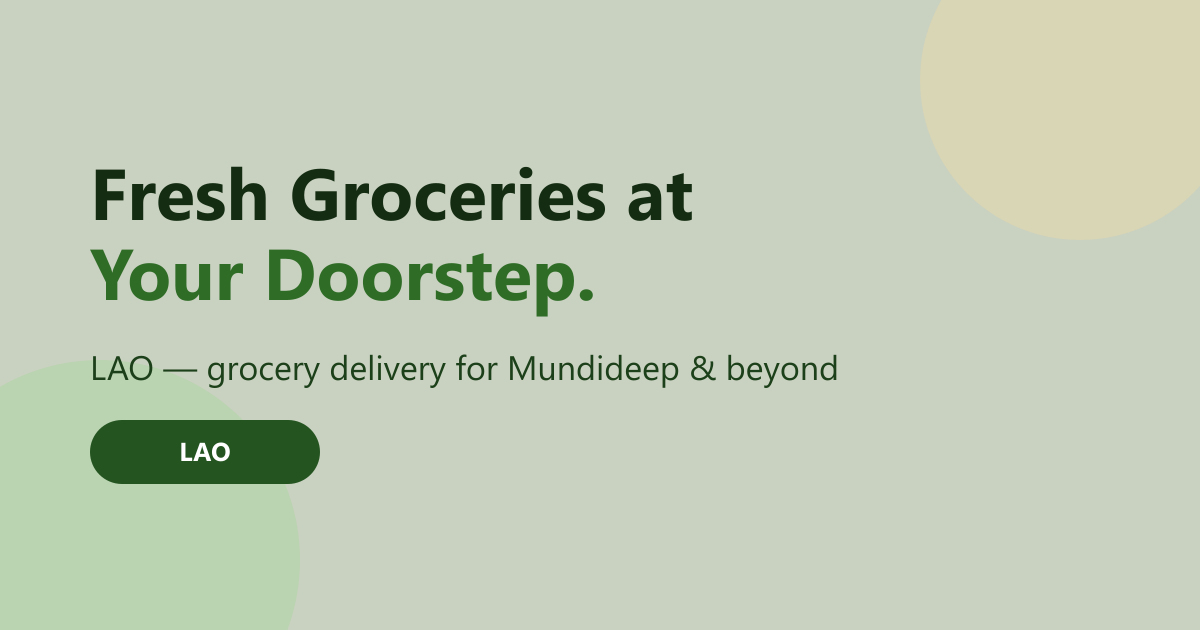
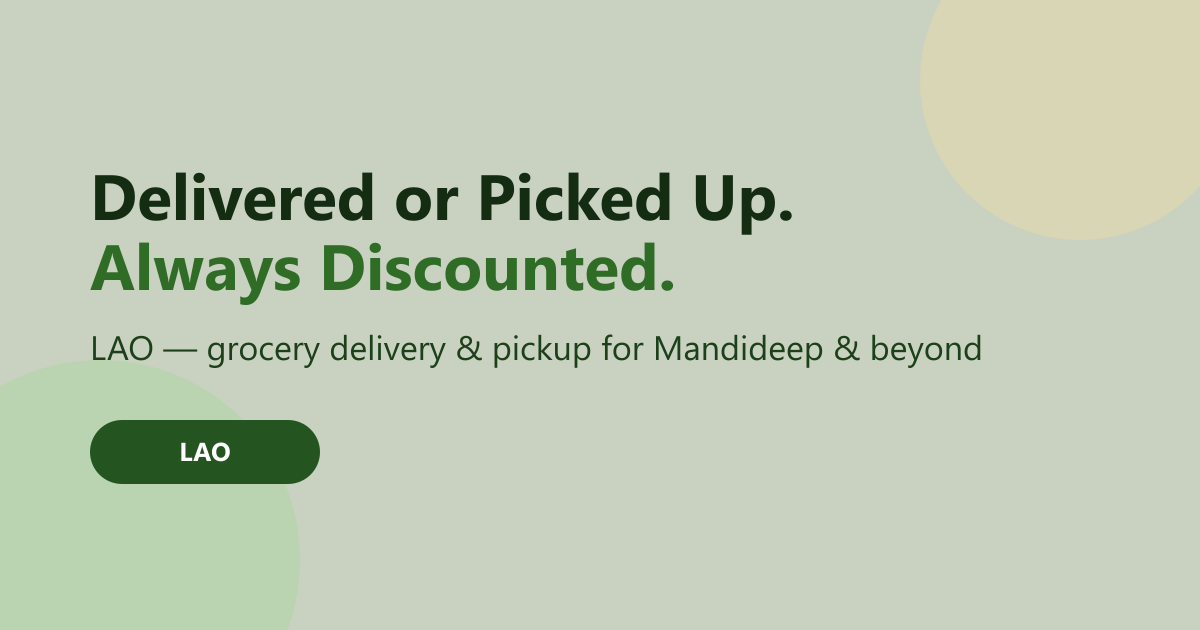
Fix Mandideep spelling, add delivery-vs-pickup + discount messaging
- Correct "Mundideep" -> "Mandideep" everywhere (was inconsistent,
  matching a typo in the source Figma copy).
- Rework hero headline/subcopy and trust badges to surface both
  fulfillment options (home delivery or in-store pickup) and make the
  discounted-delivery pricing explicit rather than implied.
- Add a placeholder "Pickup Locations in Mandideep" block to the
  footer with three dummy store addresses (flagged in README as
  needing real addresses before launch).
- Add an FAQ entry and llms.txt note covering delivery vs. pickup.
- New percent/store icons for the trust badges.

Changed region(s): [[0.0617, 0.2714, 0.6783, 0.3921], [0.0617, 0.3921, 0.555, 0.5127], [0.0617, 0.5127, 0.8325, 0.6032]]

diff --git a/src/data/site.ts b/src/data/site.ts
@@ -1,16 +1,16 @@
 export const site = {
   name: "LAO",
   fullName: "LAO Delivery",
-  tagline: "Fresh Groceries at Your Doorstep.",
+  tagline: "Groceries Delivered to Your Doorstep or Picked Up In-Store.",
   description:
-    "LAO delivers fresh groceries, dairy, snacks, household essentials, personal care and baby care to your doorstep in Mundideep and other Tier 3 cities across Madhya Pradesh. Free delivery on your first order.",
+    "LAO delivers discounted fresh groceries, dairy, snacks, household essentials, personal care and baby care to your doorstep — or ready for pickup from your nearest store — in Mandideep and other Tier 3 cities across Madhya Pradesh. Free delivery on your first order.",
   // Render sets RENDER_EXTERNAL_URL automatically at build time. Falls back
   // to the eventual production domain once that's pointed at the service.
   url: process.env.RENDER_EXTERNAL_URL ?? "https://www.laogrocery.com",
   playStoreUrl: "https://play.google.com/store",
   supportEmail: "support@laogrocery.com",
   supportPhone: "+91-90000-00000",
-  foundingCity: "Mundideep, Madhya Pradesh",
+  foundingCity: "Mandideep, Madhya Pradesh",
   social: {
     instagram: "https://instagram.com/laogrocery",
     facebook: "https://facebook.com/laogrocery",
@@ -28,8 +28,9 @@ export const navLinks = [
 
 export const trustBadges = [
   { icon: "truck", title: "Fast Delivery" },
-  { icon: "gift", title: "1st Order Delivery free" },
-  { icon: "pin", title: "Now Available in Mundideep" },
+  { icon: "percent", title: "Discounted Home Delivery" },
+  { icon: "store", title: "Pickup From Store" },
+  { icon: "pin", title: "Now Available in Mandideep" },
 ];
 
 export const services = [
@@ -75,7 +76,8 @@ export const whyLaoPoints = [
   {
     number: 1,
     title: "Best Prices",
-    description: "No hidden charges. Cheaper than local stores.",
+    description:
+      "No hidden charges. Home delivery is always discounted versus your local store, and pickup orders skip delivery fees entirely.",
   },
   {
     number: 2,
@@ -105,6 +107,24 @@ export const nearbyCities = [
   "Dewas",
 ];
 
+// Placeholder pickup points — replace with real store addresses once
+// confirmed. All three are in Mandideep, the founding city, until pickup
+// expands to nearby cities alongside delivery.
+export const storeLocations = [
+  {
+    name: "LAO Store — Old Bus Stand Road",
+    area: "Near Bus Stand, Mandideep, MP 462046",
+  },
+  {
+    name: "LAO Store — Industrial Area Phase II",
+    area: "Sector B, Mandideep, MP 462046",
+  },
+  {
+    name: "LAO Store — Housing Board Colony",
+    area: "Main Road, Mandideep, MP 462046",
+  },
+];
+
 export const footerLinks = {
   support: [
     "Groceries",
@@ -131,12 +151,17 @@ export const faqs = [
   {
     question: "Which cities does LAO deliver to?",
     answer:
-      "LAO started in Mundideep, Madhya Pradesh and is expanding to nearby Tier 3 cities and towns across the state, bringing metro-quality grocery delivery to communities that are often left behind.",
+      "LAO started in Mandideep, Madhya Pradesh and is expanding to nearby Tier 3 cities and towns across the state, bringing metro-quality grocery delivery to communities that are often left behind.",
   },
   {
     question: "Is my first order really free?",
     answer:
       "Yes. Every new customer gets free delivery on their first order, with no minimum order value and no hidden charges.",
+  },
+  {
+    question: "Can I pick up my order instead of getting it delivered?",
+    answer:
+      "Yes. Every order can either be delivered to your doorstep at a discounted price, or reserved for pickup at your nearest LAO store — whichever suits you better.",
   },
   {
     question: "What can I order from LAO?",

diff --git a/README.md b/README.md
@@ -1,6 +1,6 @@
 # LAO Delivery — Marketing Website
 
-A static, SEO/LLM-friendly marketing site for **LAO**, a grocery delivery app for Tier 3 Indian cities (launching in Mundideep, Madhya Pradesh). Built from the Figma prototypes for the mobile and web experiences, with the web nav/layout patterns back-ported into the mobile view so small screens aren't missing navigation or the cities/map content.
+A static, SEO/LLM-friendly marketing site for **LAO**, a discounted grocery delivery-and-pickup app for Tier 3 Indian cities (launching in Mandideep, Madhya Pradesh). Built from the Figma prototypes for the mobile and web experiences, with the web nav/layout patterns back-ported into the mobile view so small screens aren't missing navigation or the cities/map content.
 
 ## Stack
 
@@ -52,6 +52,8 @@ All copy, nav links, service categories, FAQ, and the nearby-cities list live in
 - The Madhya Pradesh "This Is Where LAO Begins" map is a stylised illustrative shape with labelled pins — **not** a geographically accurate state boundary. Swap `src/components/CitiesMap.astro`'s SVG path for a real MP boundary/GeoJSON trace if geographic accuracy is needed later.
 - Product photography from the Figma designs (grocery collage, phone screen, footer aisle backdrop) could not be exported from the proto view, so those areas use icon tiles / a coded phone mockup / a color treatment instead. Swap in real photography via `public/` + `<img>` tags whenever assets are available — the layouts are already sized for it.
 - The phone "Log In" screen in the "Built for Your City" section is coded HTML/CSS, not a screenshot — update the fields directly in `CityFit.astro` if the real login flow changes.
+- Delivery vs. pickup and the "discounted home delivery" positioning are called out in the hero, the trust badges, the "Best Prices" point, an FAQ entry, and the footer's Store Locations column — see `whyLaoPoints`, `trustBadges`, `faqs`, and `storeLocations` in `src/data/site.ts`.
+- **`storeLocations`** in `src/data/site.ts` (rendered in the footer) are placeholder addresses in Mandideep — replace with real pickup-store addresses before launch.
 
 ## SEO / LLM-friendliness
 
@@ -79,4 +81,5 @@ Once a custom domain is attached in Render, either rely on Render's domain confi
 
 - [ ] Replace the icon-tile hero collage / stylised map / coded phone mockup with real photography or Figma exports if available.
 - [ ] Update `playStoreUrl`, `supportEmail`, `supportPhone`, and social links in `src/data/site.ts` with real values.
+- [ ] Replace the placeholder `storeLocations` addresses in `src/data/site.ts` with real pickup-store addresses.
 - [ ] Re-run `npm run build` and spot check `dist/` before deploying (any static host — Render, Netlify, Vercel, Cloudflare Pages, GitHub Pages — works as-is).
